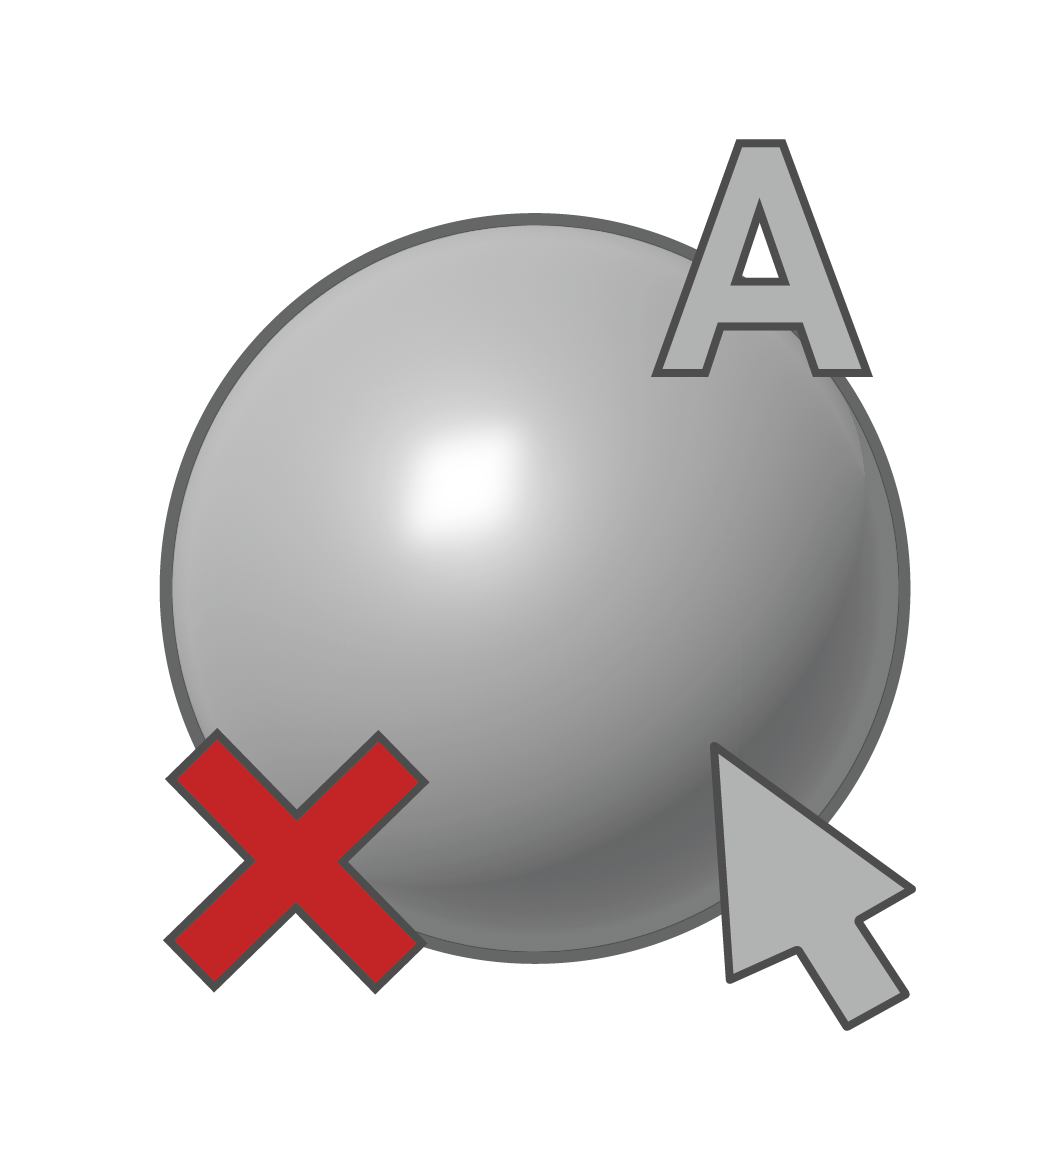
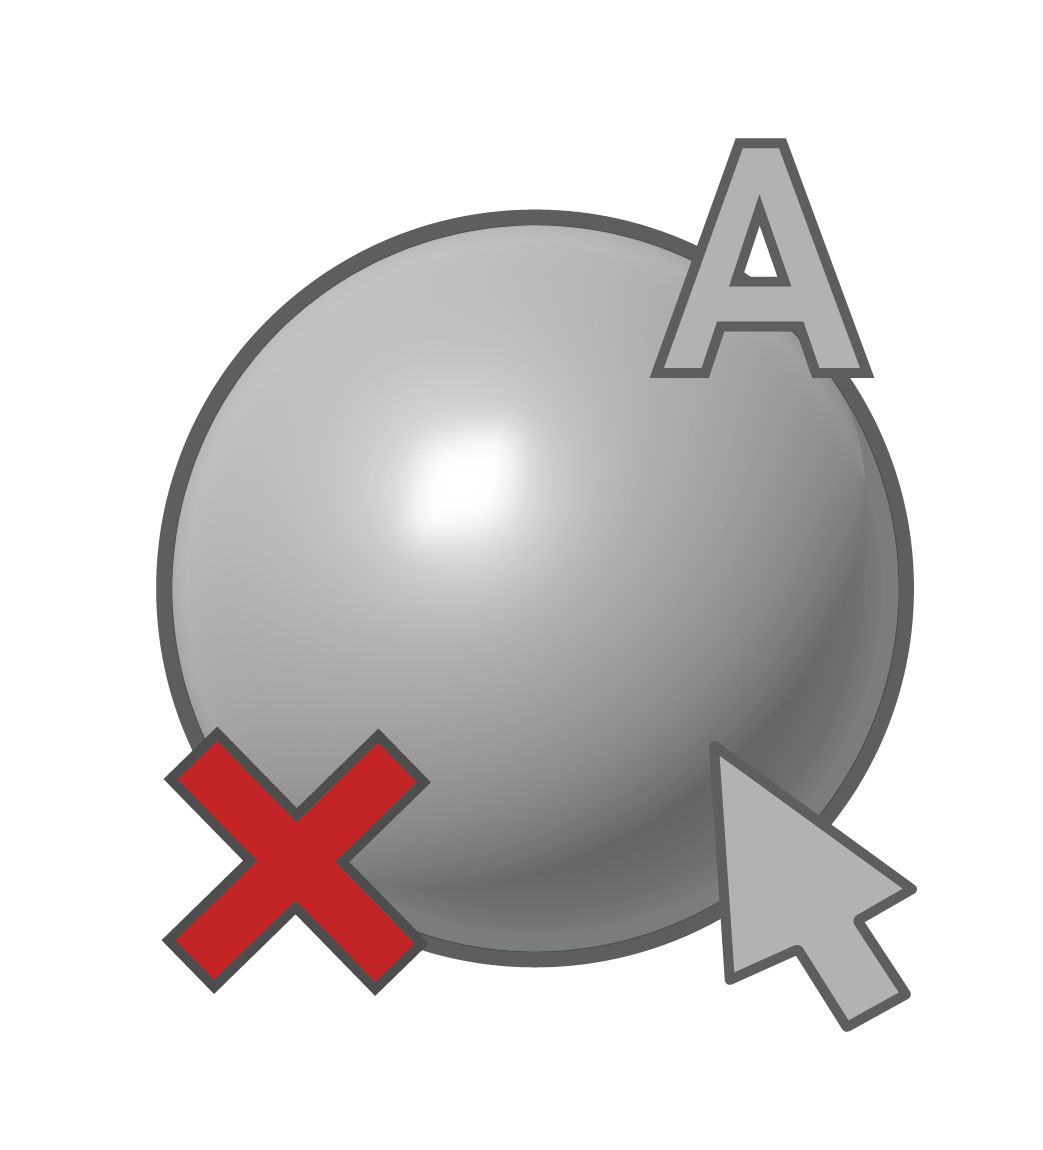
refactor: 1，重构设置模块 2.修改了图标 3.修改了默认字典的一些小错误 - 连接节点标签页面重构90% - 修改了图标的大小 - 字典中的key有一些存在大写，全部统一改成小写

diff --git a/Arnold_Magic_Node.py b/Arnold_Magic_Node.py
@@ -62,6 +62,8 @@ from Arnold_Magic_Node_lib import *  # 从自定义库中导入所有内容
 import DependenciesLibs  # 导入自定义的依赖管理模块
 DependenciesLibs.importLibs()  # 调用自定义模块中的函数，动态导入和初始化所需的依赖库
 
+import InitialConfigFile
+
 # 10. 初始化变量
 # 创建初始化变量
 LicenseV_device_fingerprint = None
@@ -904,7 +906,8 @@ class ArnoldMagicNodeSettingsPanel(QtWidgets.QDialog):
         # 创建“重置数据”动作
         self.reset_data_action = QAction('重置设置数据', self)
         # 连接“重置数据”动作的触发信号到对应的槽函数
-        self.reset_data_action.triggered.connect(lambda :os.remove(os.path.join(settings_path, 'texture_processing_data.bin')))
+        self.reset_data_action.triggered.connect(lambda :(os.remove(os.path.join(settings_path, 'texture_processing_data.bin')),
+                                                          InitialConfigFile.Main_program()))
         self.settings_menu.addAction(self.reset_data_action)
 
         # 许可证菜单及其动作
@@ -926,9 +929,12 @@ class ArnoldMagicNodeSettingsPanel(QtWidgets.QDialog):
         self.sponsor_action = QAction('赞助', self)
         # 创建“联系/反馈”动作
         self.contact_feedback_action = QAction('联系/反馈', self)
+        self.contact_feedback_action.triggered.connect(
+            lambda: QtGui.QDesktopServices.openUrl(QtCore.QUrl(pluginFeedbackURL)))
         # 创建“帮助文档”动作并连接到打开帮助文档的槽函数
         self.help_document_action = QAction('帮助文档', self)
-        self.help_document_action.triggered.connect(lambda :QtGui.QDesktopServices.openUrl(QtCore.QUrl('https://flowus.cn/amazingike/93cfb135-4ab3-4536-8a5b-9b3e53042b51')))
+        self.help_document_action.triggered.connect(
+            lambda :QtGui.QDesktopServices.openUrl(QtCore.QUrl(pluginHomePath)))
 
         # 将动作添加到关于菜单
         self.about_menu.addAction(self.sponsor_action)
@@ -1179,37 +1185,80 @@ class ArnoldMagicNodeSettingsPanel(QtWidgets.QDialog):
         self.auto_node_connection_list = QtWidgets.QListWidget()
         self.auto_node_connection_list.setSelectionMode(QtWidgets.QAbstractItemView.MultiSelection)
 
-        for channel in node_connection_config['Auto_Node_Connection_Options']:
+        for channel, value in node_connection_config['Auto_Node_Connection_Options'].items():
             item = QtWidgets.QListWidgetItem(channel.capitalize())  # 让名称的第一个字大写
             item.setSelected(True)
             item.setFont(font)
             self.auto_node_connection_list.addItem(item)
 
+            item.setSelected(value)
+
         # 设置大小
         self.auto_node_connection_list.setFixedHeight(530)
+
+        # 绑定修改自动连接处理界定啊配置函数
+        self.auto_node_connection_list.selectionModel().selectionChanged.connect(
+            lambda item:self.modify_auto_node_connection_config())
+
         layout.addWidget(self.auto_node_connection_list)
 
+        input_port_combo = {}
+        output_port_combo = {}
+        self.node_list_edit = {}
         # 动态创建节点连接设置
         for channel, data in node_connection_config['ProcessingNodeData'].items():
-            layout.addWidget(self.create_section_label(channel.upper()))
+
+            # 通道的名称标题
+            layout.addWidget(self.create_section_label(channel.capitalize()+':'))
+
+            # 创建一个横着的layout
             h_layout = QtWidgets.QHBoxLayout()
-            input_port_combo = QtWidgets.QComboBox()
-            input_port_combo.addItems(['color', 'normalCamera', 'specularColor'])  # 示例输入端口
-            input_port_combo.setCurrentText(data['InputPort'])
 
-            node_list_edit = QtWidgets.QLineEdit(", ".join(data['NodeList']))
+            # 输入端的多选
+            input_port_combo[channel] = QtWidgets.QComboBox()
+            input_port_combo[channel].addItems(node_connection_config['InputPortList'])  # 示例输入端口
+            input_port_combo[channel].setCurrentText(
+                node_connection_config['ProcessingNodeData'][channel]['InputPort'])
+            input_port_combo[channel].setFixedWidth(130)
+            input_port_combo[channel].currentIndexChanged.connect(
+                lambda _, ch=channel:
+                self.modify_nested_config(input_port_combo[ch].currentText(), ['ProcSet_Options',
+                                                                                        'ProcessingNodeData',
+                                                                                        ch, 'InputPort']))
 
-            output_port_combo = QtWidgets.QComboBox()
-            output_port_combo.addItems(['outColor', 'outNormal', 'outAlpha'])  # 示例输出端口
-            output_port_combo.setCurrentText(data['OutputPort'])
+            # 创建的节点输入列表
+            self.node_list_edit[channel] = QtWidgets.QLineEdit()
+            self.node_list_edit[channel].setText(
+                str(node_connection_config['ProcessingNodeData'][channel]['NodeList'])
+                .replace('[', '')
+                .replace(']', '')
+                .replace("'", "")
+                .replace(",", " , "))
+            self.node_list_edit[channel].textChanged.connect(
+                lambda text, ch=channel: self.modify_pro_node_list_config(ch, text)
+            )
 
+            # 输出端的多选
+            output_port_combo[channel] = QtWidgets.QComboBox()
+            output_port_combo[channel].addItems(node_connection_config['OutputPortList'])  # 示例输出端口
+            output_port_combo[channel].setCurrentText(
+                node_connection_config['ProcessingNodeData'][channel]['OutputPort'])
+            output_port_combo[channel].setFixedWidth(130)
+            output_port_combo[channel].currentIndexChanged.connect(
+                lambda _, ch=channel:
+                self.modify_nested_config(output_port_combo[ch].currentText(), ['ProcSet_Options',
+                                                                                        'ProcessingNodeData',
+                                                                                        ch, 'OutputPort']))
+            # 加入到创建节点的列表中
             add_node_button = QtWidgets.QPushButton("<")
             add_node_button.setFixedWidth(30)
-            add_node_button.clicked.connect(lambda _, c=channel: self.add_node_to_list(c))
+            add_node_button.setFixedHeight(28)
+            # add_node_button.clicked.connect(lambda _, c=channel: self.add_node_to_list(c))
 
-            h_layout.addWidget(input_port_combo)
-            h_layout.addWidget(node_list_edit)
-            h_layout.addWidget(output_port_combo)
+            # 全部加入到layout中
+            h_layout.addWidget(input_port_combo[channel])
+            h_layout.addWidget(self.node_list_edit[channel])
+            h_layout.addWidget(output_port_combo[channel])
             h_layout.addWidget(add_node_button)
 
             layout.addLayout(h_layout)
@@ -1283,15 +1332,14 @@ class ArnoldMagicNodeSettingsPanel(QtWidgets.QDialog):
         # 添加到选项卡
         self.tab_widget.addTab(path_matching_widget, "节点路径匹配")
 
-
-
-
-
     # 创建标签
     def create_section_label(self, text):
         label = QtWidgets.QLabel(text)
         label.setStyleSheet("font-weight: bold;")
         return label
+
+
+
 
 
     # --------------------保存设置内容的函数 开始
@@ -1405,9 +1453,50 @@ class ArnoldMagicNodeSettingsPanel(QtWidgets.QDialog):
         #     .replace("'", "")
         #     .replace(",", " , "))
 
+    def modify_auto_node_connection_config(self):
+        def main():
+            # 获取选中的项
+            selected_items = self.auto_node_connection_list.selectedItems()
 
+            # 如果没有选中项，则直接返回
+            if not selected_items:
+                return
 
+            # 提取选中的内容
+            selected_values = [item.text() for item in selected_items]
+            # 将选中的内容转换为全大写
+            selected_values_uppercase = [s.upper() for s in selected_values]
 
+            # 遍历处理数据中的每个通道
+            for channel in self.texture_processing_data['ProcSet_Options']['Auto_Node_Connection_Options']:
+                # 检查当前通道（大写）是否在选中的大写值中
+                if channel.upper() in selected_values_uppercase:
+                    # 如果匹配，更新配置文件为真
+                    self.modify_nested_config(True, ['ProcSet_Options', 'Auto_Node_Connection_Options', channel])
+                else:
+                    # 如果不匹配，更新配置文件为假
+                    self.modify_nested_config(False, ['ProcSet_Options', 'Auto_Node_Connection_Options', channel])
+
+            # 使用定时器确保 main 函数在事件队列的下一次迭代中执行
+
+        QtCore.QTimer.singleShot(0, main)
+
+    def modify_pro_node_list_config(self, channel, val):
+        # 处理写入值，并强制转为大写
+        output_list = [item.strip() for item in val.split(",")]
+
+        # 保存修改值
+        self.modify_nested_config(output_list, ['ProcSet_Options',
+                                                'ProcessingNodeData',
+                                                channel, 'NodeList'])
+
+        # 刷新输入框
+        self.node_list_edit[channel].setText(
+            str(output_list)
+            .replace('[', '')
+            .replace(']', '')
+            .replace("'", "")
+            .replace(",", " , "))
     # --------------------保存设置内容的函数 结束
 
 # 贴图管理器 使用QT库写的窗口！！！

diff --git a/InitialConfigFile.py b/InitialConfigFile.py
@@ -414,7 +414,7 @@ new_texture_processing_data_dict = {
     },
         'InputPortList': ["input", "passthrough"],
         'OutputPortList': ["outColor", "outAlpha", "outValue", "outTransparency", "outColorR", "outColorG", "outColorB"],
-        'GraysList' : ["base", 'diffuseRoughness', 'metalness', 'specularRoughness', 'subsurface', 'emission', 'AO', 'Bump', 'Displacement'],
+        'GraysList' : ["base", 'diffuseRoughness', 'metalness', 'specularRoughness', 'subsurface', 'emission', 'ao', 'bump', 'displacement'],
         'ColorList' : ['baseColor', 'specularColor', 'subsurfaceColor', 'subsurfaceRadius', 'emissionColor', 'opacity', 'normalCamera'],
         'MagicConnectionSetColorSpace' : True,
         'PathDetectionConnectionSetColorSpace' : True
